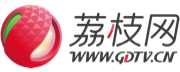
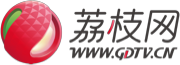
-

diff --git a/public/FM.html b/public/FM.html
@@ -26,19 +26,19 @@
     <canvas id="canvas-basic"></canvas>
     <div class="LOGO">
         <a href="https://www.radiofoshan.com.cn/" target="_blank" rel="noopener noreferrer">
-            <img src="img/FM/fsdt.png" style="width:132px;height:43px;" draggable="false">
+            <img src="img/FM/fsdt.png" style="height:43px;" draggable="false">
         </a>
         <a href="https://www.gztv.com/#/channel" target="_blank" rel="noopener noreferrer">
-            <img src="img/FM/gsw.png" style="width:43px;height:43px;" draggable="false">
+            <img src="img/FM/gztv.png" style="height:43px;" draggable="false">
         </a>
         <a href="https://www.gdtv.cn/" target="_blank" rel="noopener noreferrer">
-            <img src="img/FM/gdtv.png" style="width:108.7px;height:43px;" draggable="false">
+            <img src="img/FM/gdtv.png" style="height:43px;" draggable="false">
         </a>
         <a href="https://www.qtfm.cn/" target="_blank" rel="noopener noreferrer">
-            <img src="img/FM/qtfm.png" style="width:106.0px;height:43px;" draggable="false">
+            <img src="img/FM/qtfm.png" style="height:43px;" draggable="false">
         </a>
         <a href="./" target="_blank" rel="noopener noreferrer">
-            <img src="favicon.ico" style="width:43px;height:43px;" draggable="false">
+            <img src="favicon.ico" style="height:43px;" draggable="false">
         </a>
     </div>
 
